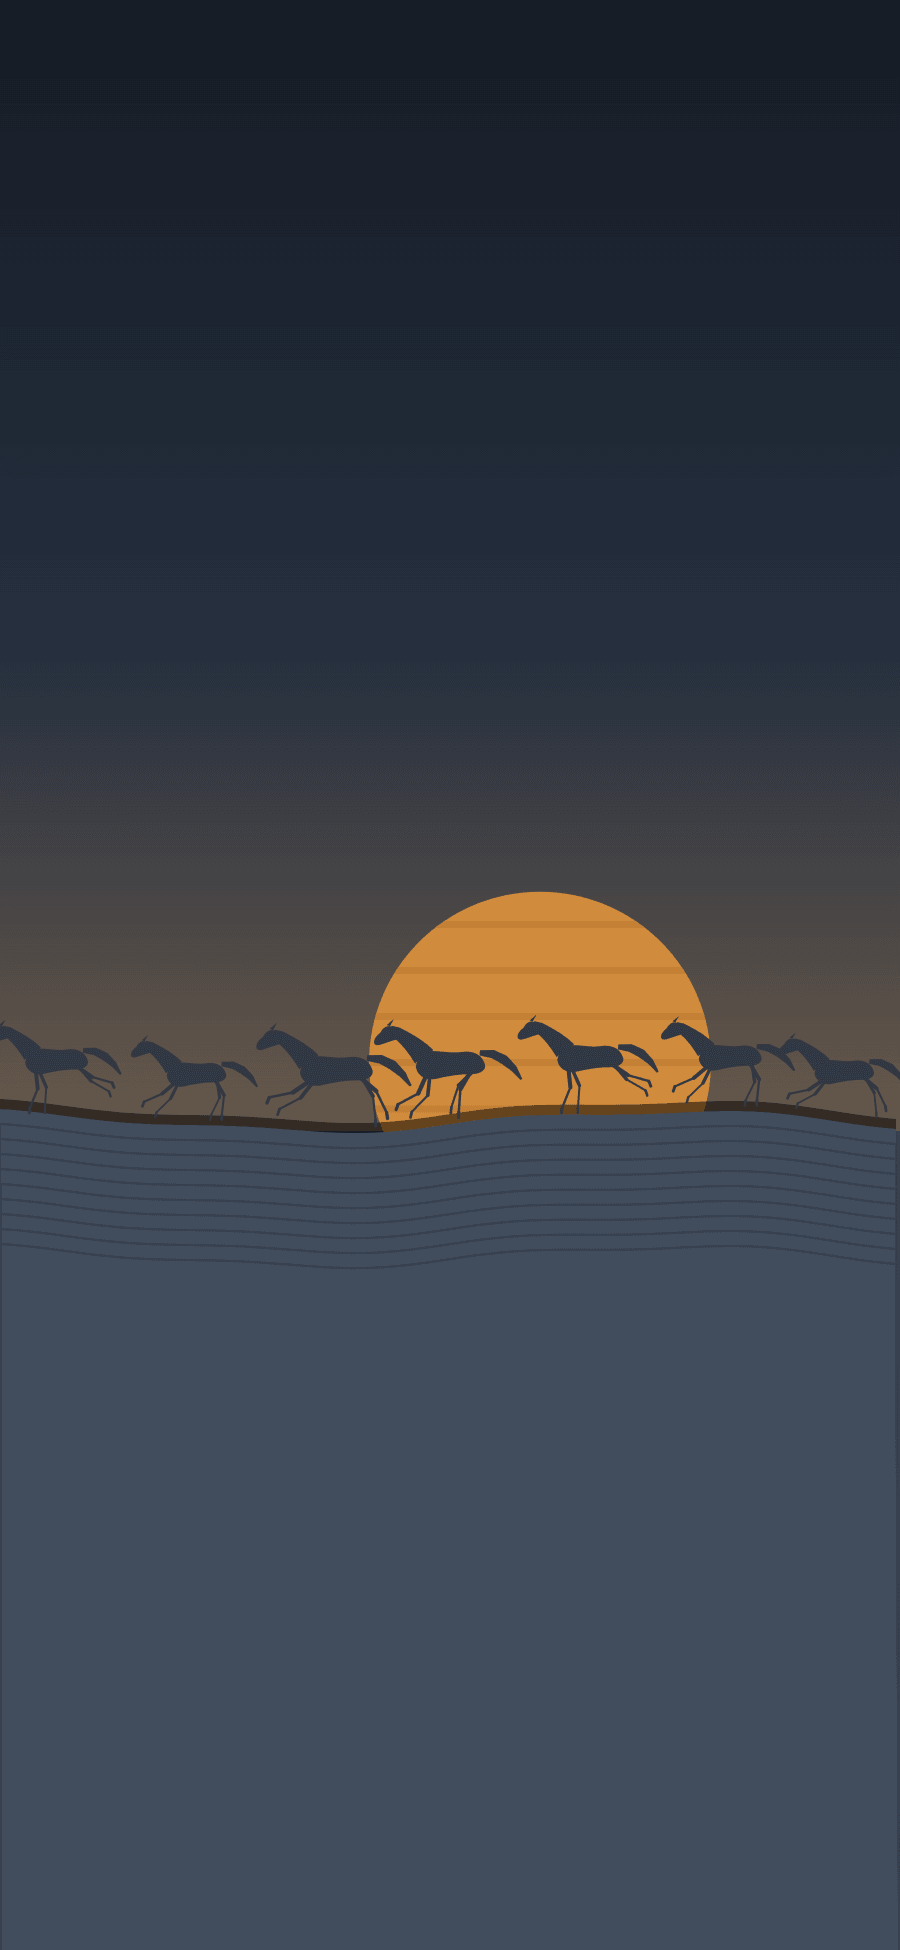
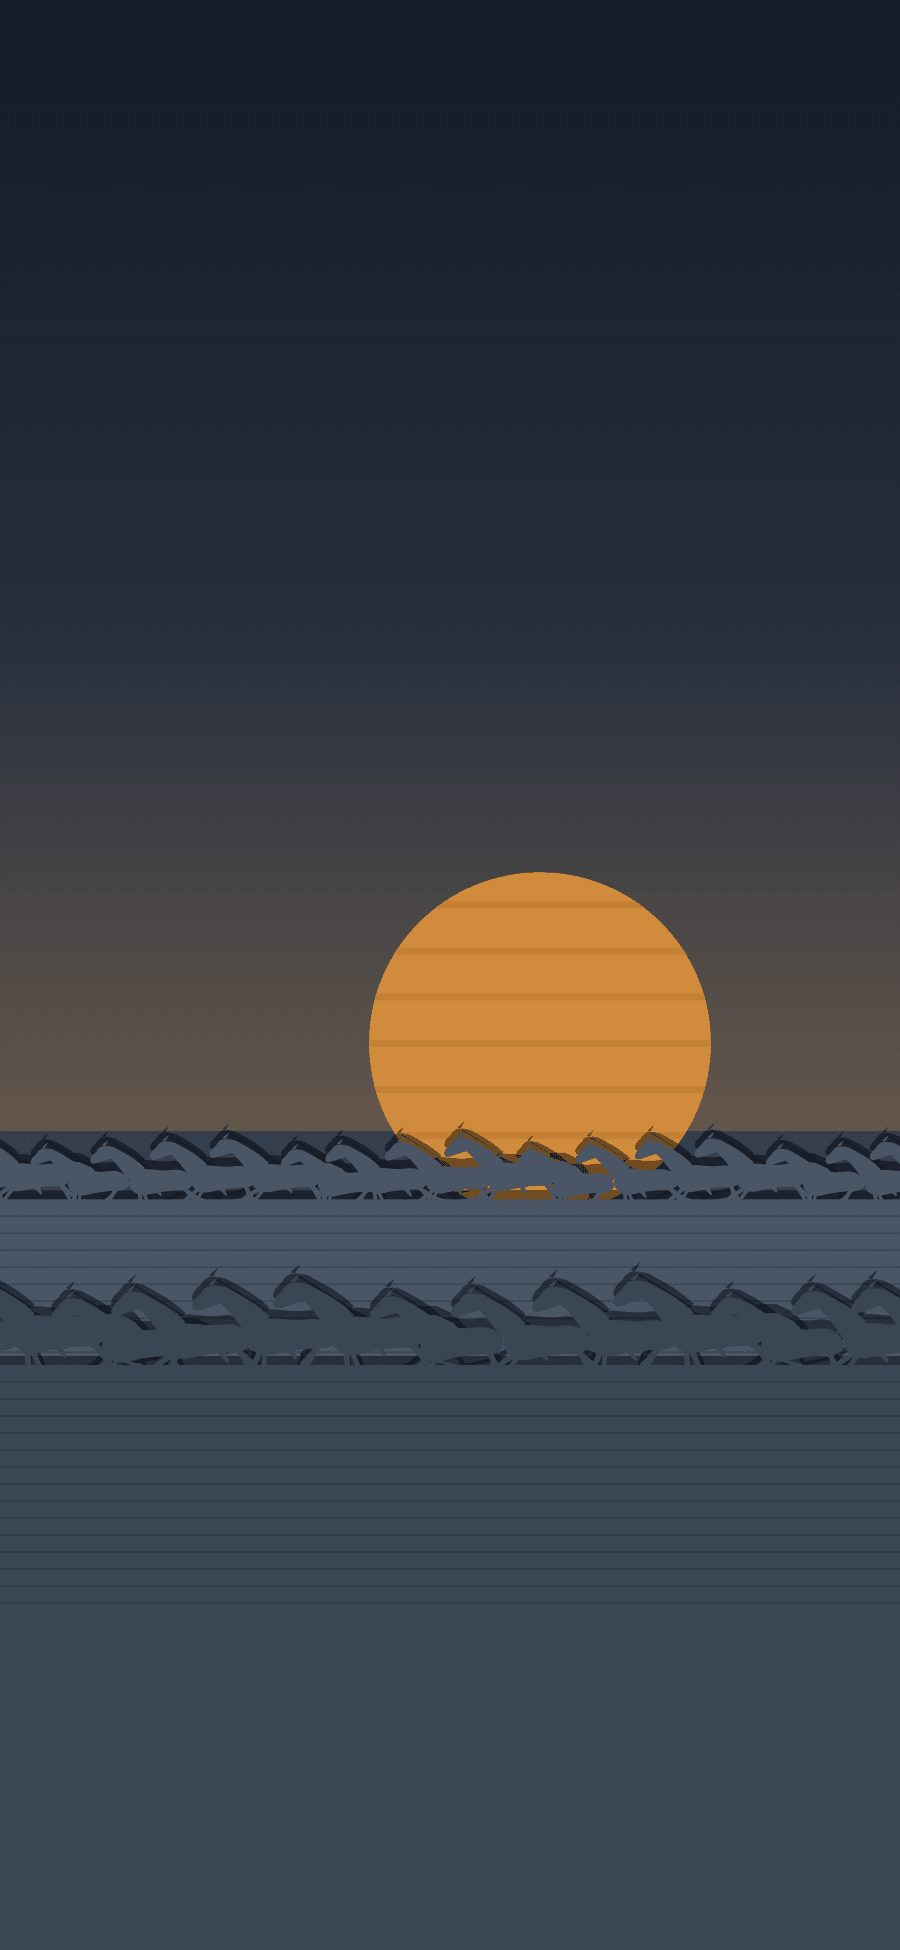
Табун ярусами вместо рядов на земле
Лошади идут по верхнему краю своей полосы, а всё, что ниже, залито
сплошняком — как гряда барханов, где ближняя закрывает подошву дальней.

Решающая мелочь — глубина посадки. Копыта на краю полосы давали чащу из
палок: силуэт распадался на ноги и головы. Прятать ноги наполовину тоже не
хватило — над краем оставалось ещё полноги и та же чаща. Работает только
глубокая посадка, когда над полосой остаются корпус, шея и намёк на ноги
под брюхом.

Ближний ярус — исключение: там лошади крупные и стоят редко, в чащу не
сплетаются, а без ног не видно самого галопа. Ему посадка мельче.

Changed region(s): [[0.0, 0.4615, 1.0, 0.6462], [0.0, 0.6462, 0.9956, 0.7077], [0.4356, 0.4308, 0.6844, 0.4923]]

diff --git a/scripts/paper/build.js b/scripts/paper/build.js
@@ -21,6 +21,9 @@ const { horse } = require('./horse');
 const OUT = path.join(__dirname, '..', '..', 'assets', 'paper');
 const W = 900;
 const H = 1950;
+// Запас по краям: слои разъезжаются в параллаксе, и полоса яруса должна
+// доставать за кадр, иначе у края открывается пустота.
+const BAND_PAD = 80;
 
 let uid = 0;
 const nid = () => `c${(uid += 1)}`;
@@ -323,29 +326,79 @@ function night() {
 
 // Палитра табуна: холодная ночь и низкое тёплое солнце у горизонта. Лошади
 // на каждом плане темнее своего фона — иначе силуэт пропадает.
+// Палитра табуна: холодная ночь, низкое тёплое солнце и лестница тонов от
+// дальнего яруса к ближнему. Ярусы обязаны различаться по светлоте — на
+// одинаковых тонах пять рядов слипаются в одно чёрное пятно.
 const HERD = {
   sky: ['#161c26', '#334053'],
   sun: '#d08b3c',
   sunLine: '#b5742c',
-  haze: '#8a94a4',
-  groundFar: '#414c5c',
-  groundFarLine: '#333c49',
-  groundMid: '#2c3543',
-  groundMidLine: '#222935',
-  groundNear: '#1d2530',
-  groundNearLine: '#131922',
-  horseFar: '#2f3846',
-  horseMid: '#1b2029',
-  horseNear: '#05080c',
-  dust: '#6b788a',
+  // Ярус: [заливка, линия контура]. Сверху вниз — от дальнего к ближнему.
+  ranks: [
+    ['#4a5666', '#3b4553'],
+    ['#3b4655', '#2e3743'],
+    ['#2d3542', '#222933'],
+    ['#1f2530', '#161b24'],
+    ['#0f141b', '#070a0f'],
+  ],
+  shadow: 'rgba(0,0,0,0.45)',
 };
 
-// Табун. Лошади идут тремя планами, и весь эффект бега держится на том, что
-// планы разнесены по глубине: при наклоне телефона ближний ряд уезжает
-// втрое сильнее дальнего, и табун будто обгоняет фон.
+// Табун ярусами, как гряды барханов: ряд лошадей идёт по верхнему краю своей
+// полосы, а всё, что ниже, залито сплошняком. Ряд впереди накрывает низ
+// предыдущего — ровно так же, как ближний бархан закрывает подошву дальнего.
 //
-// Внутри плана лошади различаются фазой галопа. Одна фаза на всех читается
-// шеренгой одинаковых фигур — движения не возникает, сколько их ни ставь.
+// Решающая мелочь — ноги прячутся в полосу. Поставленные копытами на её край,
+// пять рядов давали чащу из ног и голов: силуэт распадался на палки. Когда
+// полоса срезает ноги по щётки, над ней остаются корпуса, шеи и головы —
+// они и читаются гребнем гряды.
+//
+// Полоса и лошади одного цвета и сливаются в одну фигуру, поэтому рисуются
+// подряд: сначала лошади, потом полоса поверх их ног.
+function frieze(baseY, L, fill, line, seed, phaseShift = 0, bury = 0.46) {
+  const step = L * 0.78;
+  const count = Math.ceil(W / step) + 3;
+  const cid = nid();
+  const bandY = baseY;
+  // Копыта уходят глубоко под край полосы. Мелкая посадка не спасала: при
+  // закопанных 0.30 длины над краем оставалось ещё полноги, и пять рядов
+  // давали ту же чащу из палок. Над полосой должен оставаться корпус и намёк
+  // на ноги под брюхом — не больше.
+  //
+  // Исключение — ближний ярус: там лошади крупные и стоят редко, ноги в чащу
+  // не сплетаются, а без них не видно самого галопа. Ему посадка мельче.
+  const feetY = baseY + L * bury;
+
+  const band = `<rect x="${-BAND_PAD}" y="${bandY.toFixed(1)}" `
+    + `width="${W + BAND_PAD * 2}" height="${(H - bandY + 80).toFixed(1)}"/>`;
+
+  const herdOf = (color) => {
+    let out = '';
+    for (let i = 0; i < count; i += 1) {
+      const x = -step * 1.5 + i * step + ((i * 37 + seed) % 9) * (L * 0.022);
+      const scale = L * (0.93 + ((i * 29 + seed) % 4) * 0.04);
+      const y = feetY - scale * 0.72 + ((i * 53 + seed) % 5) * (L * 0.006);
+      out += horse(x, y, scale, -1, i * 3 + seed + phaseShift, color);
+    }
+    return out;
+  };
+
+  // Тень отбрасывается вверх, на то, что позади: ближний ярус ниже по кадру,
+  // и его верхний срез ложится тенью на предыдущий.
+  let out = `<g transform="translate(0,-9)">${herdOf(HERD.shadow)}`
+    + `<g fill="${HERD.shadow}">${band}</g></g>`;
+
+  out += herdOf(fill) + `<g fill="${fill}">${band}</g>`;
+
+  // Нарезка внутри полосы — тот же след стопки, что у остальных слоёв.
+  out += `<clipPath id="${cid}">${band}</clipPath>`;
+  out += `<g clip-path="url(#${cid})" fill="none" stroke="${line}" stroke-width="2.2" opacity="0.7">`;
+  for (let k = 1; k <= 14; k += 1) {
+    out += `<path d="M 0 ${(bandY + k * 17).toFixed(1)} h ${W}"/>`;
+  }
+  return `${out}</g>`;
+}
+
 function herd() {
   const sky = `<defs><linearGradient id="hsky" x1="0" y1="0" x2="0" y2="1">`
     + `<stop offset="0" stop-color="${HERD.sky[0]}"/>`
@@ -353,14 +406,13 @@ function herd() {
     + `<stop offset="1" stop-color="${HERD.sky[1]}"/></linearGradient>`
     + `<linearGradient id="hglow" x1="0" y1="0" x2="0" y2="1">`
     + `<stop offset="0" stop-color="${HERD.sun}" stop-opacity="0"/>`
-    + `<stop offset="1" stop-color="${HERD.sun}" stop-opacity="0.34"/></linearGradient></defs>`
+    + `<stop offset="1" stop-color="${HERD.sun}" stop-opacity="0.32"/></linearGradient></defs>`
     + `<rect width="${W}" height="${H}" fill="url(#hsky)"/>`
-    + `<rect x="0" y="${H * 0.34}" width="${W}" height="${H * 0.24}" fill="url(#hglow)"/>`;
+    + `<rect x="0" y="${H * 0.32}" width="${W}" height="${H * 0.26}" fill="url(#hglow)"/>`;
 
-  // Низкое солнце: диск наполовину за грядой, лошади дальнего плана идут
-  // по нему силуэтами. Кольца внутри — та же нарезка, что у остальных слоёв.
+  // Низкое солнце: диск за первым ярусом, лошади идут по нему силуэтами.
   const sx = W * 0.60;
-  const sy = H * 0.545;
+  const sy = H * 0.535;
   const sr = W * 0.19;
   const sid = nid();
   let sun = `<circle cx="${sx}" cy="${sy}" r="${sr}" fill="${HERD.sun}"/>`
@@ -368,65 +420,22 @@ function herd() {
     + `<g clip-path="url(#${sid})" fill="none" stroke="${HERD.sunLine}" stroke-width="7" opacity="0.45">`;
   // Полосы, а не кольца: концентрические окружности внутри диска читаются
   // спилом дерева. Горизонтальная нарезка — это садящееся сквозь дымку
-  // солнце, и она же перекликается с полосами гряды.
+  // солнце, и она же перекликается с нарезкой ярусов.
   for (let k = -3; k <= 3; k += 1) {
     const yy = (sy + k * sr * 0.27).toFixed(1);
     sun += `<path d="M ${sx - sr} ${yy} h ${sr * 2}"/>`;
   }
   sun += `</g>`;
 
-  // Пыль: вытянутые клубы у самых копыт.
-  const dust = (x, y, w, h, op, fill) => {
-    let out = `<g fill="${fill}" opacity="${op}">`;
-    for (let i = 0; i < 9; i += 1) {
-      const t = i / 8;
-      out += `<ellipse cx="${(x + t * w).toFixed(1)}" cy="${(y - Math.sin(t * Math.PI) * h * 0.4).toFixed(1)}" `
-        + `rx="${(w * 0.09).toFixed(1)}" ry="${(h * (0.3 + Math.sin(t * Math.PI) * 0.5)).toFixed(1)}"/>`;
-    }
-    return `${out}</g>`;
-  };
-
-  // Ряд лошадей. Копыта сажаются на саму гряду, а не на её среднюю линию:
-  // земля волнистая, и лошадь, поставленная на среднюю, то висит в воздухе,
-  // то уходит в грунт по колено.
-  //
-  // Позиции, размеры и фазы разведены детерминированно, чтобы пересборка
-  // давала ту же картинку.
-  const row = (baseY, amp, period, phase, L, count, x0, step, fill, seed) => {
-    let out = '';
-    for (let i = 0; i < count; i += 1) {
-      const x = x0 + i * step + ((i * 37 + seed) % 11) * (L * 0.03);
-      const scale = L * (0.9 + ((i * 29 + seed) % 5) * 0.05);
-      const y = ridgeY(baseY, amp, period, phase, x) - scale * 0.72;
-      out += horse(x, y, scale, -1, i * 3 + seed, fill);
-    }
-    return out;
-  };
-
-  // Порядок внутри плана: земля, пыль, лошади. Гряда, положенная поверх,
-  // срезала ногам копыта и колени — лошади стояли по брюхо в земле.
-  const farD = ridgePath(H * 0.575, 10, 700, 0.3);
-  const far = [
-    sky, sun,
-    paper(farD, HERD.groundFar, { lift: 10, texture: contours(farD, HERD.groundFarLine, 9, 15) }),
-    row(H * 0.575, 10, 700, 0.3, 78, 7, W * 0.06, W * 0.145, HERD.horseFar, 1),
-  ].join('');
-
-  const midD = ridgePath(H * 0.745, 16, 520, 0.8);
-  const mid = [
-    paper(midD, HERD.groundMid, { lift: 12, texture: contours(midD, HERD.groundMidLine, 11, 17) }),
-    dust(W * 0.02, H * 0.754, W * 1.0, 40, 0.26, HERD.dust),
-    row(H * 0.745, 16, 520, 0.8, 150, 5, W * 0.02, W * 0.215, HERD.horseMid, 2),
-  ].join('');
-
-  const nearD = ridgePath(H * 0.905, 18, 420, 0.2);
-  const near = [
-    paper(nearD, HERD.groundNear, { lift: 14, texture: contours(nearD, HERD.groundNearLine, 12, 19) }),
-    dust(-W * 0.05, H * 0.918, W * 1.12, 72, 0.30, HERD.dust),
-    row(H * 0.905, 18, 420, 0.2, 250, 4, -W * 0.06, W * 0.315, HERD.horseNear, 3),
-  ].join('');
-
-  return [far, mid, near];
+  const R = HERD.ranks;
+  return [
+    sky + sun
+      + frieze(H * 0.615, 78, R[0][0], R[0][1], 1, 0)
+      + frieze(H * 0.700, 106, R[1][0], R[1][1], 5, 2),
+    frieze(H * 0.790, 144, R[2][0], R[2][1], 9, 1)
+      + frieze(H * 0.885, 190, R[3][0], R[3][1], 13, 3),
+    frieze(H * 0.952, 248, R[4][0], R[4][1], 17, 2, 0.16),
+  ];
 }
 
 const SCENES = { night, herd };
